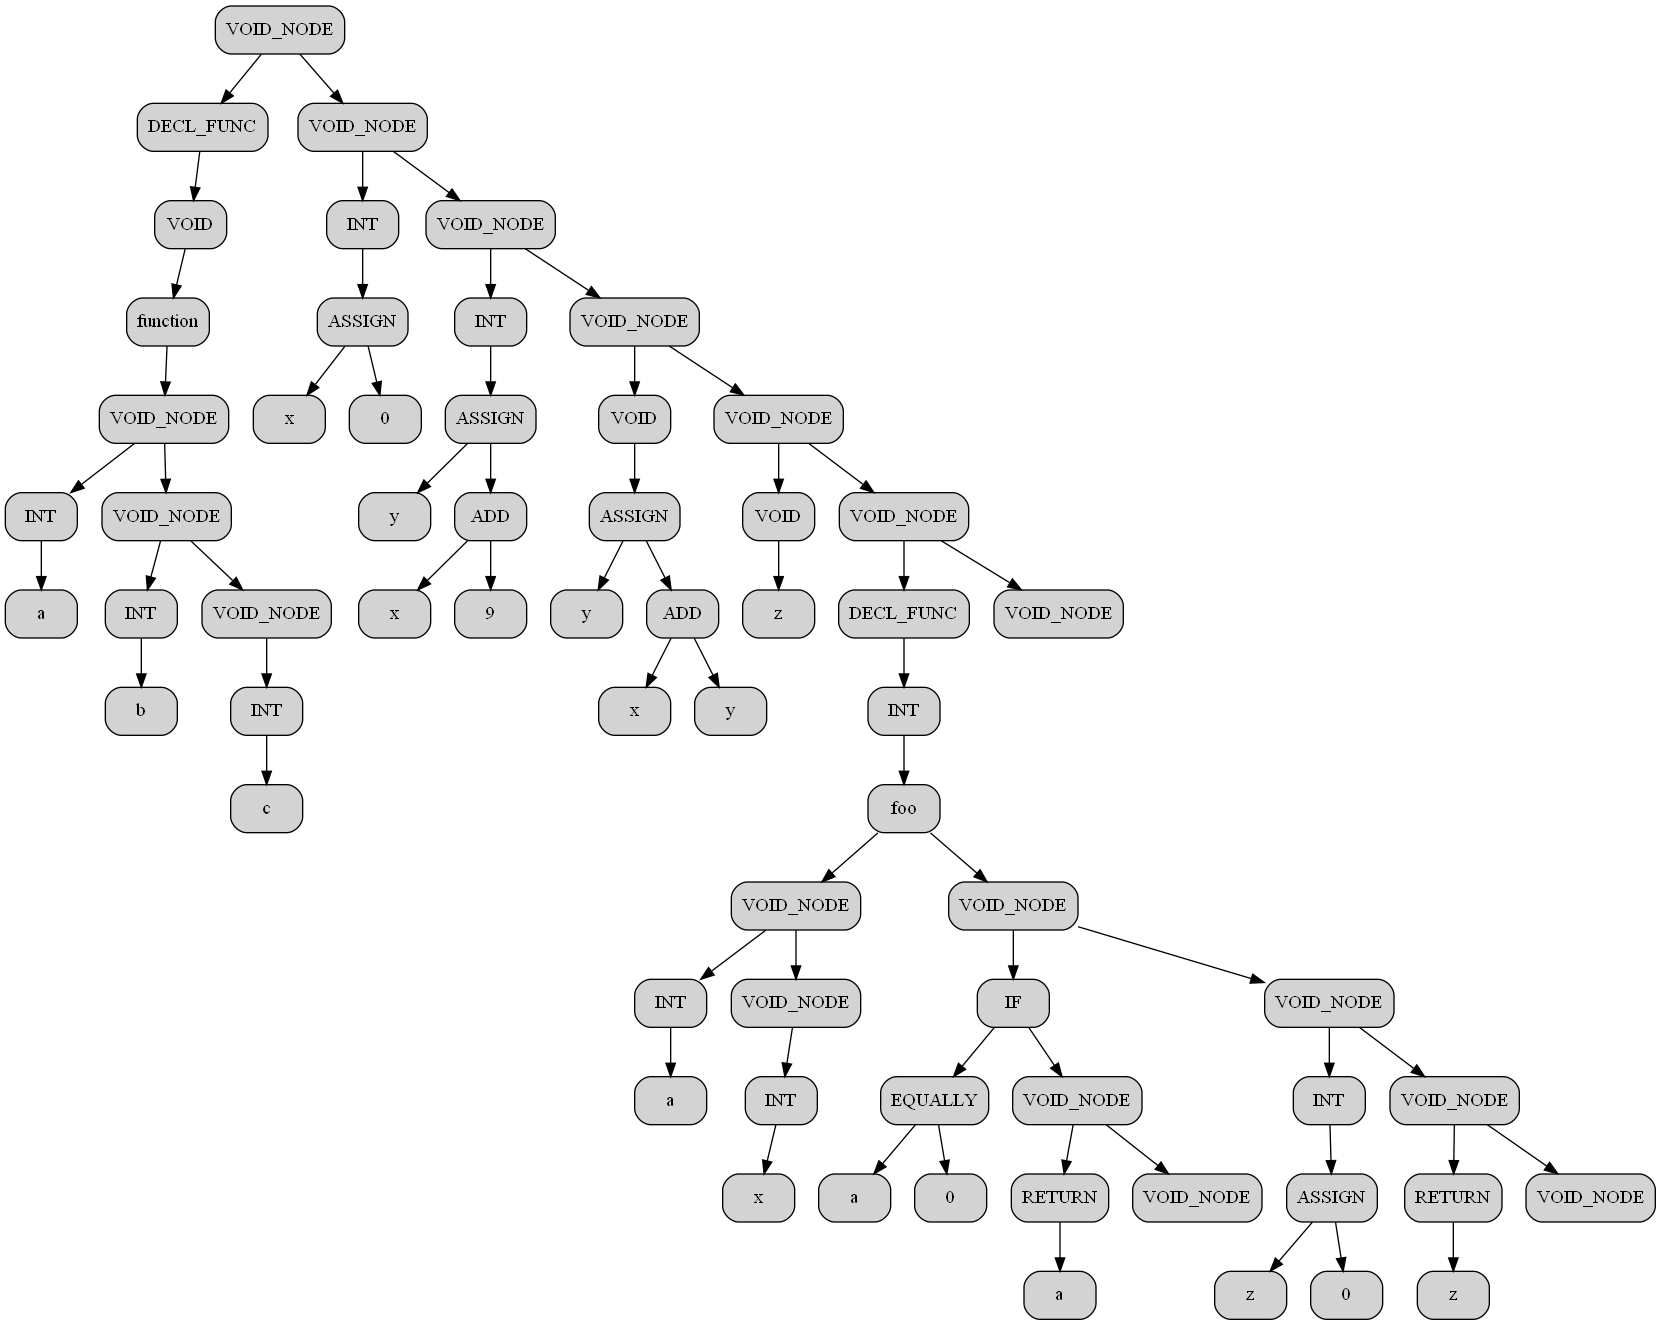
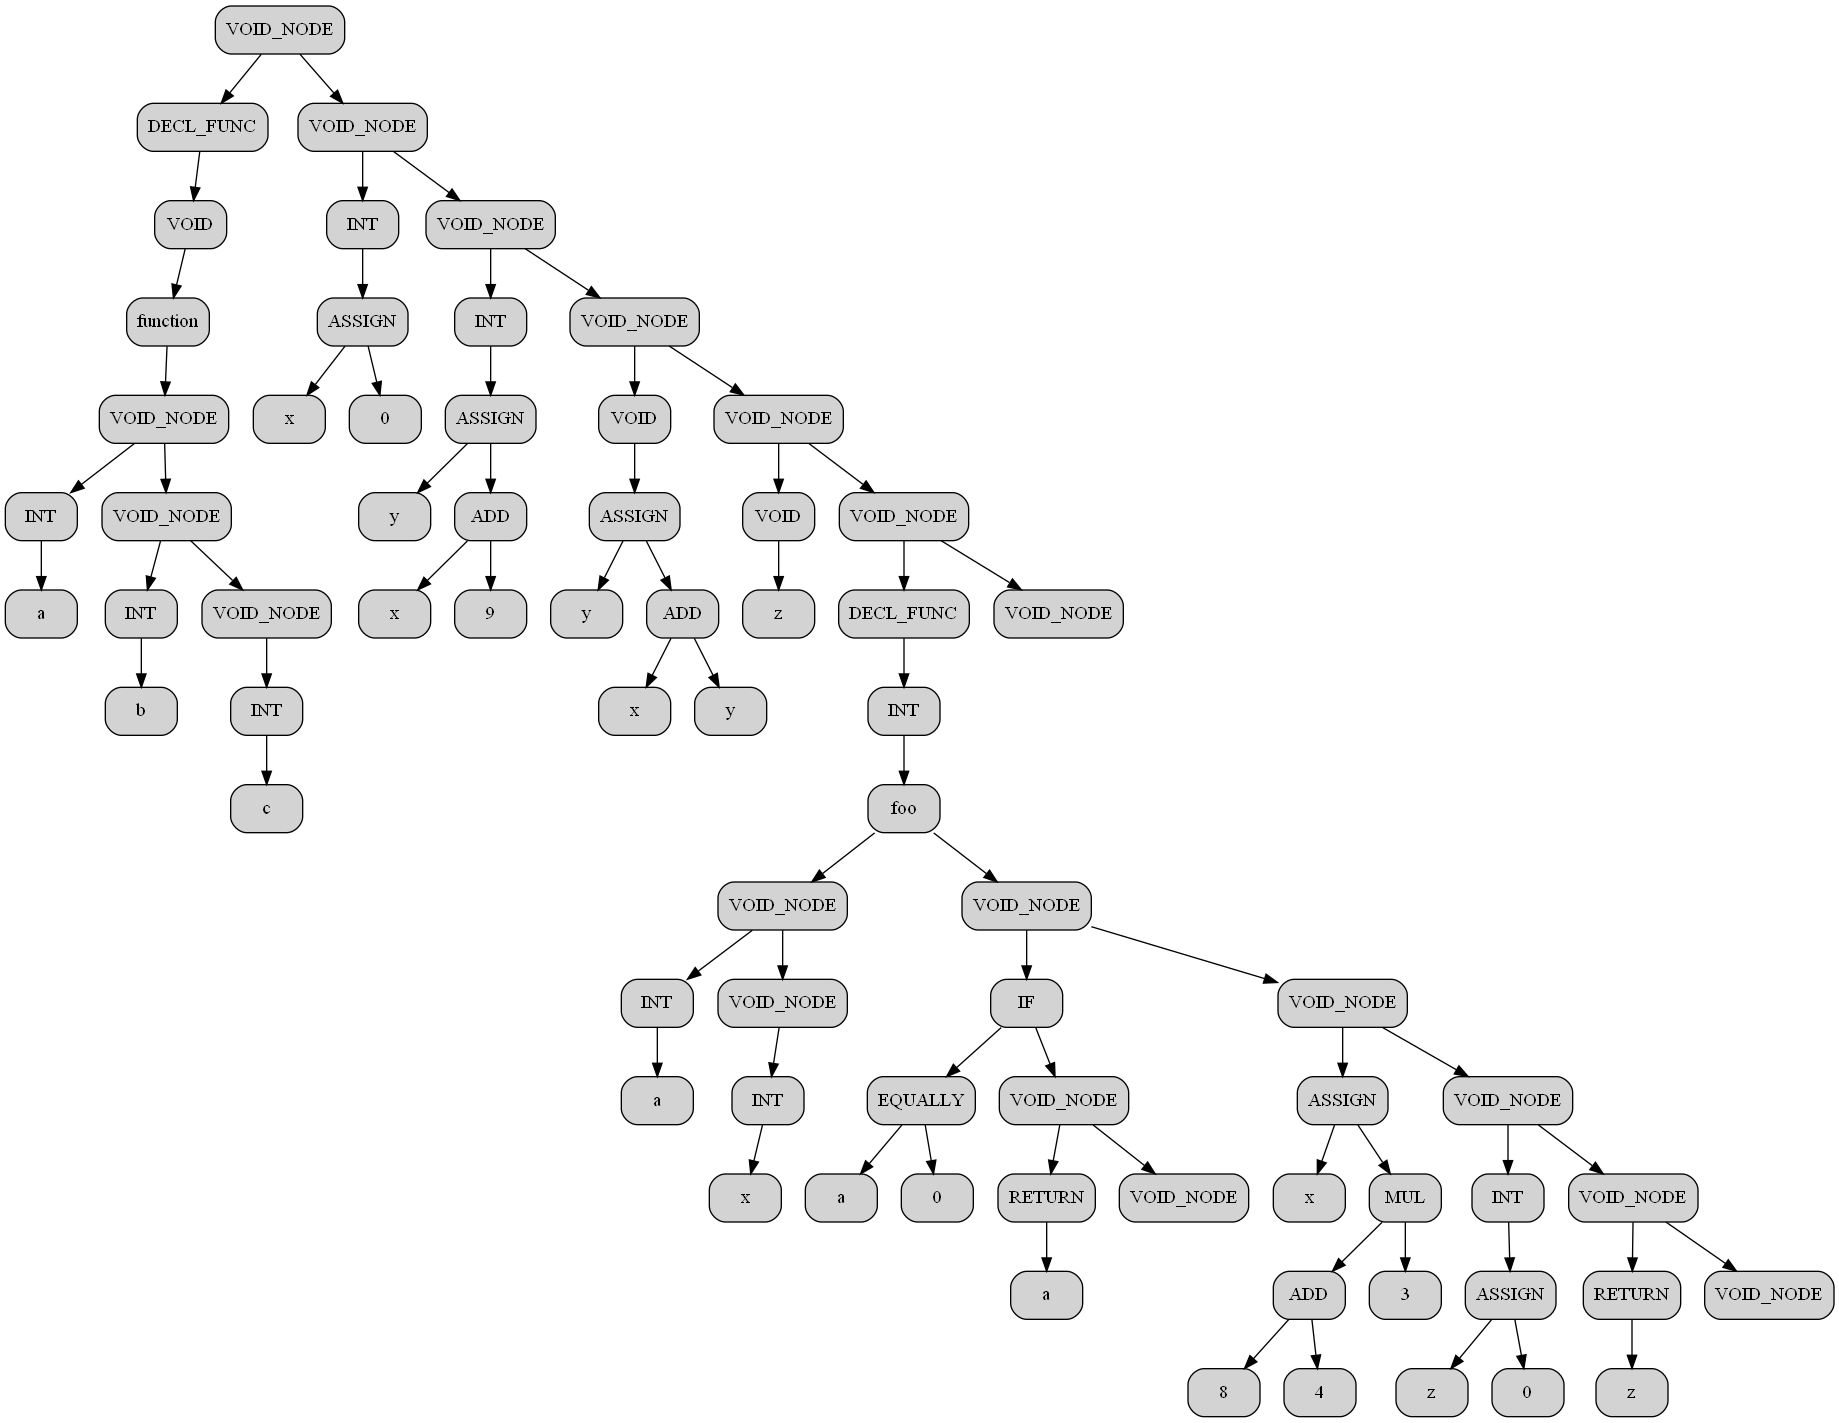
Add files via upload

Changed region(s): [[0.0, 0.0, 0.6755, 0.6498], [0.3377, 0.5879, 1.0, 1.0]]

diff --git a/FrontEnd/source/create_bynar_tree.cpp b/FrontEnd/source/create_bynar_tree.cpp
@@ -9,6 +9,7 @@ static ErrorFrontEnd command_parsing(StackForParsing *stack, Node** node);
 static ErrorFrontEnd declaration_var_parsing(StackForParsing *stack, Node** node, TypeKeyWords type);
 
 static ErrorFrontEnd expression_parsing(StackForParsing *stack, Node** node, int prioritet_operator);
+static ErrorFrontEnd expression_command_parsing(StackForParsing *stack, Node** node, int prioritet);
 
 static ErrorFrontEnd unary_parsing(StackForParsing *stack, Node** node);
 static ErrorFrontEnd const_parsing(StackForParsing *stack, Node** node);
@@ -272,7 +273,7 @@ static ErrorFrontEnd command_parsing(StackForParsing *stack, Node** node)
             error = declaration_var_parsing(stack, &(*node)->left, ((Token*)(stack->stack).ptr + stack->counter)->type_key_word);
             if (error != FRONT_ERROR_NO)
                 return error;
-            is_read = true;
+            
             break;
         
         case FUNC_DECLARATOR:
@@ -287,12 +288,31 @@ static ErrorFrontEnd command_parsing(StackForParsing *stack, Node** node)
             if (error != FRONT_ERROR_NO)
                 return error;
             is_read = true;
-            break; 
-    }
-    if (is_read)
-        return command_parsing(stack, &(*node)->right);
+            break;
+        
+        case OPERATOR:
+        case VARIABLE:
+        case CONST:
+            error = expression_command_parsing(stack, &(*node)->left, MAX_BYNARY_PRIORITET);
+            if (error != FRONT_ERROR_NO)
+                return error;
+            is_read = true;
+            break;
 
-    return FRONT_ERROR_NO;
+        default:
+            return FRONT_ERROR_NO; 
+    }
+    return command_parsing(stack, &(*node)->right);
+}
+
+static ErrorFrontEnd expression_command_parsing(StackForParsing *stack, Node** node, int prioritet)
+{
+    ErrorFrontEnd error = expression_parsing(stack, node, prioritet);
+    if (((Token*)(stack->stack).ptr + stack->counter)->number_key_words != SEP_LINE)
+        return FRONT_EXPECTED_SEP_LINE;
+
+    (stack->counter)++;
+    return FRONT_ERROR_NO; 
 }
 
 static ErrorFrontEnd check_type_and_create_node(StackForParsing *stack, Node** node, TypeKeyWords type)
